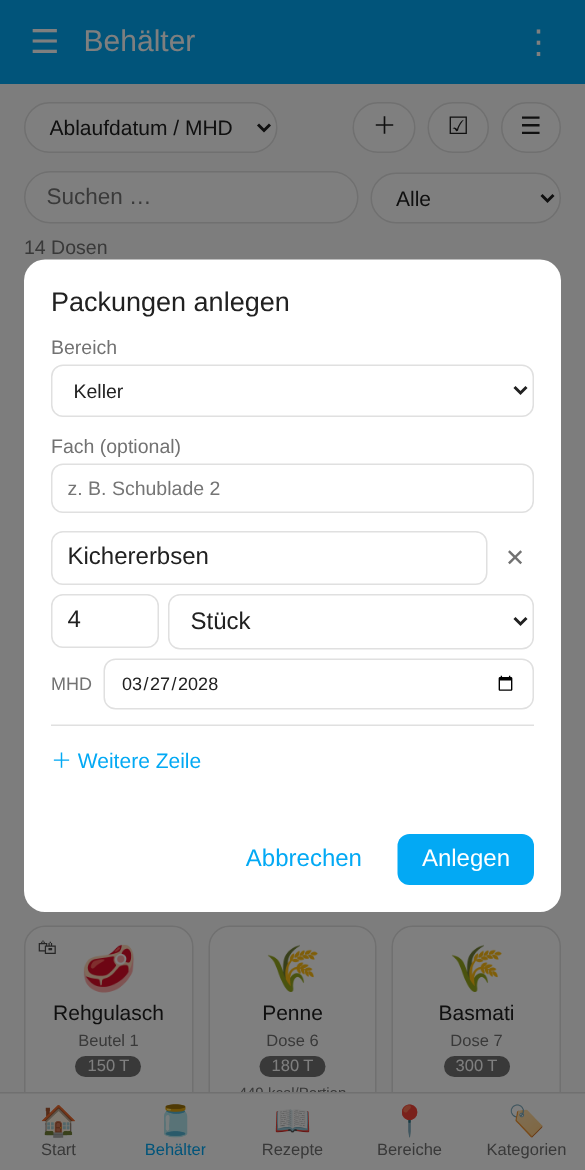
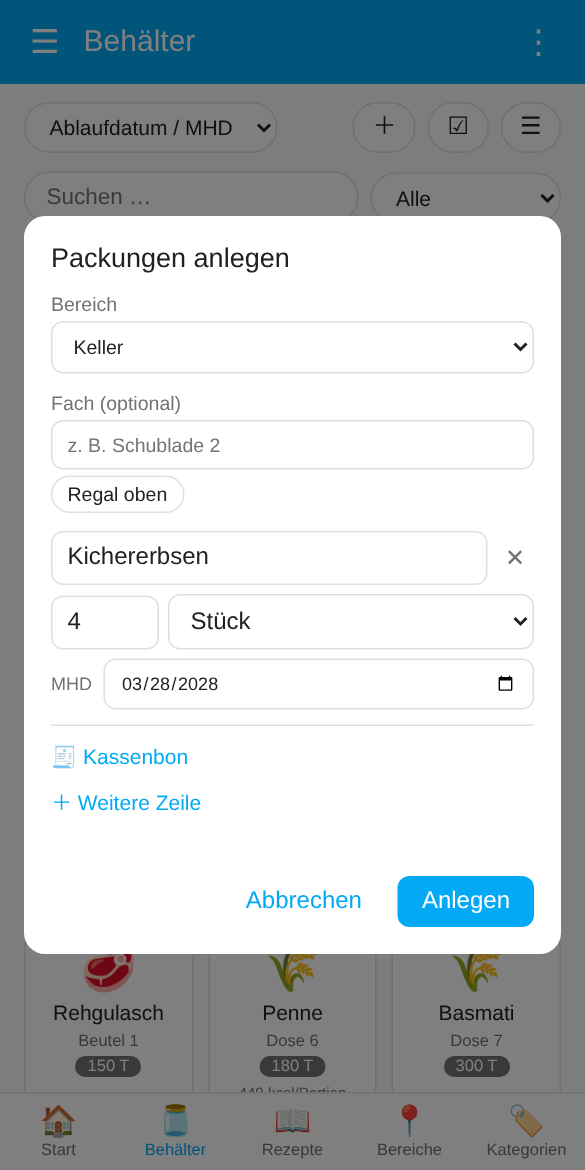
3.2.1: Fach-Vorschläge je Bereich
- schon benutzte Fächer als antippbare Chips unter jedem Fach-Feld (Beutel/Packungen
  anlegen, Verschieben, Karte, Befüll-Dialog), je Bereich, häufigste zuerst
- Tippen filtert; eingetragene Fächer merkt sich das Gerät

Claude-Session: https://claude.ai/code/session_01Q3qkotbUKKo9rH8nVuWDPZ

diff --git a/custom_components/larder/frontend/larder-panel.js b/custom_components/larder/frontend/larder-panel.js
@@ -14,6 +14,101 @@ const VERSION_QUERY = new URL(import.meta.url).search;
 const { STRINGS } = await import(`./larder-panel-strings.js${VERSION_QUERY}`);
 export { STRINGS };
 
+// ----- Fächer vorschlagen -----
+
+const COMPARTMENT_KEY = `${DOMAIN}.compartments`;
+const MAX_COMPARTMENT_CHIPS = 8;
+
+function loadCompartmentMemory() {
+  try {
+    const raw = JSON.parse(window.localStorage.getItem(COMPARTMENT_KEY) || "{}");
+    return raw && typeof raw === "object" ? raw : {};
+  } catch {
+    return {};
+  }
+}
+
+/** Benutztes Fach merken (je Bereich, die zuletzt benutzten zuerst), auch wenn die Dose später weg ist. */
+export function rememberCompartment(areaId, value) {
+  const text = String(value || "").trim();
+  if (!text) return;
+  const memory = loadCompartmentMemory();
+  const key = areaId || "";
+  memory[key] = [text, ...(memory[key] || []).filter((v) => v.toLowerCase() !== text.toLowerCase())].slice(0, 20);
+  try {
+    window.localStorage.setItem(COMPARTMENT_KEY, JSON.stringify(memory));
+  } catch {
+    /* Speicher voll oder gesperrt: dann eben ohne */
+  }
+}
+
+/**
+ * Fächer, die in einem Bereich schon benutzt werden oder wurden: aus den Dosen, Beuteln und Packungen dort
+ * (am häufigsten zuerst) und aus den zuletzt eingetragenen. Ohne Bereich: alle Fächer.
+ */
+export function knownCompartments(hass, devices, areaId) {
+  const states = (hass && hass.states) || {};
+  const counts = new Map();
+  const add = (value, weight) => {
+    const text = String(value || "").trim();
+    if (!text) return;
+    const key = text.toLowerCase();
+    const entry = counts.get(key) || { text, n: 0 };
+    entry.n += weight;
+    counts.set(key, entry);
+  };
+  for (const dev of devices || []) {
+    if (areaId && (dev.areaId || "") !== areaId) continue;
+    const comp = states[dev.entities.compartment];
+    if (comp && comp.state && !["unknown", "unavailable"].includes(comp.state)) add(comp.state, 1);
+  }
+  const memory = loadCompartmentMemory();
+  const remembered = areaId ? memory[areaId] || [] : Object.values(memory).flat();
+  remembered.forEach((value, i) => add(value, 0.5 + (remembered.length - i) / 100));
+  return [...counts.values()].sort((a, b) => b.n - a.n || a.text.localeCompare(b.text)).map((e) => e.text);
+}
+
+/**
+ * Vorschläge als antippbare Chips unter einem Fach-Feld. `getList` liefert die Fächer (z. B. je nach Bereich);
+ * `refresh()` zeichnet sie neu, etwa wenn der Bereich gewechselt wurde. Getipptes filtert die Chips.
+ */
+export function attachCompartmentChips(input, getList, onPick = null) {
+  let box = input.nextElementSibling;
+  if (!box || !box.classList || !box.classList.contains("compchips")) {
+    box = document.createElement("div");
+    box.className = "compchips";
+    box.dataset.role = "compartment-chips";
+    input.after(box);
+  }
+  const refresh = () => {
+    const typed = input.value.trim().toLowerCase();
+    const list = getList().filter((v) => v.toLowerCase() !== typed && (!typed || v.toLowerCase().includes(typed)));
+    box.replaceChildren(
+      ...list.slice(0, MAX_COMPARTMENT_CHIPS).map((value) => {
+        const chip = document.createElement("button");
+        chip.type = "button";
+        chip.className = "compchip";
+        chip.textContent = value;
+        chip.addEventListener("click", () => {
+          input.value = value;
+          refresh();
+          if (onPick) onPick(value);
+          else input.dispatchEvent(new Event("change"));
+        });
+        return chip;
+      }),
+    );
+    box.hidden = !box.children.length;
+  };
+  if (!input.dataset.chips) {
+    input.dataset.chips = "1";
+    input.addEventListener("input", refresh);
+  }
+  input._refreshChips = refresh;
+  refresh();
+  return refresh;
+}
+
 /** Beschriftung der Quelle eines Schätzwerts (Tabelle, KI oder vom Nutzer korrigiert, mit Ursprung). */
 export function sourceLabel(t, source, origin) {
   if (source === "learned") {
@@ -345,7 +440,9 @@ class DoseCard {
       });
     }
     this.q('[data-f="compartment"]').addEventListener("change", (ev) => {
-      if (this.ids.compartment) this._call("text", "set_value", { entity_id: this.ids.compartment, value: ev.target.value.trim() });
+      if (!this.ids.compartment) return;
+      this._call("text", "set_value", { entity_id: this.ids.compartment, value: ev.target.value.trim() });
+      rememberCompartment(this._areaId, ev.target.value);
     });
     this.inputs.bestBefore.addEventListener("change", () => {
       const v = this.inputs.bestBefore.value;
@@ -588,6 +685,8 @@ class DoseCard {
     this.q('[data-l="compartment"]').textContent = t.compartment;
     const compInput = this.q('[data-f="compartment"]');
     compInput.placeholder = t.compartmentHint;
+    this._areaId = dev.areaId || "";
+    if (comp) attachCompartmentChips(compInput, () => knownCompartments(hass, this._panel._devices, this._areaId));
     compInput.disabled = !comp || comp.state === "unavailable";
     this._setInput(compInput, isValidState(comp) ? comp.state : "");
     if (admin) {
@@ -1346,6 +1445,9 @@ class LarderPanel extends HTMLElement {
       const comp = states[flexible[0].entities.compartment];
       f("compartment").value = isValidState(comp) ? comp.state : "";
       f("compartment").placeholder = t.compartmentHint;
+      // Fächer des gewählten Bereichs vorschlagen (wechselt mit dem Bereich)
+      const refresh = attachCompartmentChips(f("compartment"), () => knownCompartments(hass, this._devices, f("area").value), () => {});
+      f("area").onchange = refresh;
     }
     const shop = states[dev.entities.shopping];
     f("shopping").checked = !!shop && shop.state === "on";
@@ -1573,6 +1675,7 @@ class LarderPanel extends HTMLElement {
     }
     if (values.compartment !== undefined && flex && flex.state === "on" && ids.compartment) {
       await hass.callService("text", "set_value", { entity_id: ids.compartment, value: values.compartment });
+      rememberCompartment(values.area !== undefined ? values.area : dev.areaId, values.compartment);
     }
   }
 

diff --git a/custom_components/larder/frontend/larder-dashboard-items.js b/custom_components/larder/frontend/larder-dashboard-items.js
@@ -216,7 +216,7 @@ export function buildItems(kind, rows, vacuum = true) {
   return items;
 }
 
-export function installItems(Dashboard, { el, isAdmin, listAreas, DOMAIN }) {
+export function installItems(Dashboard, { el, isAdmin, listAreas, DOMAIN, attachCompartmentChips, knownCompartments, rememberCompartment }) {
   const proto = Dashboard.prototype;
 
   const fmtDate = (hass, iso) => {
@@ -482,6 +482,8 @@ export function installItems(Dashboard, { el, isAdmin, listAreas, DOMAIN }) {
       error,
       buttonsRow(button("cancel", t.cancel, () => this._closeDialog()), submit),
     );
+    const refreshMoveChips = attachCompartmentChips(compartment, () => knownCompartments(hass, this._classic._devices, area.value), () => {});
+    area.addEventListener("change", refreshMoveChips);
     this._submit = async () => {
       const n = Math.max(1, Math.min(total, parseInt(count.value, 10) || total));
       submit.disabled = true;
@@ -490,6 +492,7 @@ export function installItems(Dashboard, { el, isAdmin, listAreas, DOMAIN }) {
         const msg = { type: `${DOMAIN}/pack_move`, device_id: deviceId, count: n, compartment: compartment.value.trim() };
         msg.area_id = area.value || null;
         await hass.callWS(msg);
+        rememberCompartment(area.value, msg.compartment);
         const place = [area.value ? area.options[area.selectedIndex].textContent : t.noArea, compartment.value.trim()].filter(Boolean).join(" · ");
         this._closeDialog();
         this.showNotice(t.moveDone(n, place));
@@ -728,6 +731,9 @@ export function installItems(Dashboard, { el, isAdmin, listAreas, DOMAIN }) {
       error,
       buttonsRow(button("cancel", t.cancel, () => this._closeDialog()), submit),
     );
+    const chipsFor = () => knownCompartments(hass, this._classic._devices, area.value);
+    const refreshChips = attachCompartmentChips(compartment, chipsFor, () => {});
+    area.addEventListener("change", refreshChips);
     this._submit = async () => {
       const data = [...rows.children].map((row) => {
         const v = (name) => {
@@ -750,7 +756,10 @@ export function installItems(Dashboard, { el, isAdmin, listAreas, DOMAIN }) {
       try {
         const msg = { type: `${DOMAIN}/create_items`, kind, items };
         if (area.value) msg.area_id = area.value;
-        if (compartment.value.trim()) msg.compartment = compartment.value.trim();
+        if (compartment.value.trim()) {
+          msg.compartment = compartment.value.trim();
+          rememberCompartment(area.value, msg.compartment);
+        }
         const res = await hass.callWS(msg);
         this._opts.itemArea = { ...(this._opts.itemArea || {}), [kind]: area.value };
         this._saveOptions();

diff --git a/custom_components/larder/frontend/larder-dashboard.js b/custom_components/larder/frontend/larder-dashboard.js
@@ -7,7 +7,9 @@
  */
 // Mit derselben Versionsangabe laden wie dieses Modul, damit nie eine ältere Kopie aus dem Cache benutzt wird.
 const VERSION_QUERY = new URL(import.meta.url).search;
-const { collectDevices, daysUntil, isLarderLabel, listAreas, soonDaysOf, SOON_DAYS } = await import(`./larder-panel.js${VERSION_QUERY}`);
+const { attachCompartmentChips, collectDevices, daysUntil, isLarderLabel, knownCompartments, listAreas, rememberCompartment, soonDaysOf, SOON_DAYS } = await import(
+  `./larder-panel.js${VERSION_QUERY}`
+);
 const { installItems } = await import(`./larder-dashboard-items.js${VERSION_QUERY}`);
 
 const DOMAIN = "larder";
@@ -2686,7 +2688,7 @@ export class LarderDashboard extends HTMLElement {
   }
 }
 
-installItems(LarderDashboard, { el, isAdmin, listAreas, DOMAIN });
+installItems(LarderDashboard, { el, isAdmin, listAreas, DOMAIN, attachCompartmentChips, knownCompartments, rememberCompartment });
 
 if (!customElements.get("larder-dashboard")) {
   customElements.define("larder-dashboard", LarderDashboard);

diff --git a/custom_components/larder/frontend/larder-dashboard-style.js b/custom_components/larder/frontend/larder-dashboard-style.js
@@ -164,6 +164,10 @@ export const STYLE = `
   .boughtrow:first-of-type { border-top: 0; }
   .boughtrow .name { flex: 1; min-width: 0; }
   .boughtrow button[data-role="bought-dismiss"] { border: 0; color: var(--secondary-text-color); padding: 6px 8px; }
+  .dialog .compchips { display: flex; flex-wrap: wrap; gap: 6px; }
+  .dialog .compchips[hidden] { display: none; }
+  .dialog .compchip { font: inherit; font-size: 13px; padding: 4px 10px; border-radius: 14px; cursor: pointer;
+    border: 1px solid var(--divider-color); background: none; color: var(--primary-text-color); }
   .stocklist { display: flex; flex-direction: column; gap: 8px; }
   .stockitem { background: var(--card-background-color, #fff); border: 1px solid var(--divider-color); border-radius: 12px; padding: 10px 12px; }
   .stockitem.low { border-color: var(--error-color, #c62828); }

diff --git a/custom_components/larder/frontend/larder-panel-style.js b/custom_components/larder/frontend/larder-panel-style.js
@@ -99,6 +99,10 @@ export const STYLE = `
   .lastrow .lasttext { flex: 1; }
   .allergen-warning { font-size: 13px; font-weight: 600; color: var(--error-color, #c62828); }
   .allergen-warning[hidden] { display: none; }
+  .compchips { display: flex; flex-wrap: wrap; gap: 6px; margin-top: 6px; grid-column: 1 / -1; }
+  .compchips[hidden] { display: none; }
+  .compchip { font: inherit; font-size: 13px; padding: 4px 10px; border-radius: 14px; cursor: pointer;
+    border: 1px solid var(--divider-color); background: none; color: var(--primary-text-color); }
   .olderhint { font-size: 13px; color: var(--warning-color, #f57c00); font-weight: 500; }
   .olderhint[hidden] { display: none; }
   details.nutrition { font-size: 13px; }

diff --git a/docs/de/containers.md b/docs/de/containers.md
@@ -80,6 +80,8 @@ Ein Beutel funktioniert wie eine Dose (scannen, Portion entnehmen, **Geöffnet**
 
 **📷 Kassenbon** (mit eingerichteter [KI](best-before.md#ki-optional)) liest ein Foto deines Kassenbons: Die Lebensmittel mit Anzahl erscheinen als Zeilen, Nicht-Lebensmittel, Pfand und Summen bleiben weg. Prüfen, MHD ergänzen (oder leer lassen) und **Anlegen** drücken. Das optionale **Fach** im Dialog gilt für alle Zeilen.
 
+**Fach-Vorschläge:** Überall, wo du ein Fach einträgst (Beutel und Packungen anlegen, Verschieben, Karte, Befüll-Dialog), erscheinen die im gewählten Bereich schon benutzten Fächer als Chips unter dem Feld, die häufigsten zuerst; antippen statt tippen. Tippen filtert die Chips, und früher eingetragene Fächer merkt sich das Gerät, auch wenn dort gerade nichts liegt.
+
 - **−1** auf der Karte entnimmt eine Packung; die letzte entfernt den Eintrag.
 - **Verschieben / aufteilen** bringt einen Teil oder alle Packungen eines Eintrags in einen anderen Bereich und ein anderes Fach (z. B. 2 von 5 Ketchup nach *Vorrat · Schrank*). Liegt dort schon dieselbe Ware mit demselben MHD, werden die Packungen zusammengelegt; sonst entsteht ein neuer Eintrag mit denselben Daten.
 - **Mindestbestand** auf der Karte (z. B. mindestens 4 Ketchup) gilt für das Produkt, also für alle Packungen mit diesem Inhalt an allen Orten, und bleibt gemerkt, auch wenn die letzte Packung weg ist. Sobald weniger da ist, kommt das Produkt auf die [Einkaufsliste](kitchen.md#einkaufsliste) (mit Marke und Packung, nicht doppelt).

diff --git a/docs/en/containers.md b/docs/en/containers.md
@@ -80,6 +80,8 @@ A bag works like a container (scan it, take a portion, **Opened**, **Thawed**, r
 
 **📷 Receipt** (with an [AI](best-before.md#ai-optional) set up) reads a photo of your shopping receipt: the food items and their count appear as rows, non-food lines, deposits and totals are left out. Check them, add the best-before dates (or leave them empty) and press **Add**. The optional **compartment** in the dialog applies to all rows.
 
+**Compartment suggestions:** wherever you enter a compartment (adding bags and packs, moving, the card, the fill dialog), the compartments already used in the chosen area appear as chips below the field, the most used first; tap one instead of typing. Typing filters the chips, and compartments you entered before are remembered on the device even when nothing is left in them.
+
 - **−1** on the card takes one pack; the last one removes the entry.
 - **Move / split** brings some or all packs of an entry to another area and compartment (e.g. 2 of 5 ketchup to *Pantry · Cupboard*). If the same food with the same best-before date is already there, the packs are merged; otherwise a new entry with the same data is created.
 - **Minimum stock** on the card (e.g. at least 4 ketchup) applies to the product, i.e. to all packs with this contents in every place, and is kept when the last pack is gone. As soon as there are fewer, the product goes onto the [shopping list](kitchen.md#shopping-list) (with brand and package, not twice).

diff --git a/CHANGELOG.md b/CHANGELOG.md
@@ -3,6 +3,10 @@
 Release notes for every version, newest first. They are also used as the text of the GitHub releases
 (the workflow `release.yml` takes the section of the version in `manifest.json`).
 
+## 3.2.1
+
+- **Compartment suggestions:** the compartments already used in the chosen area appear as chips below every compartment field (adding bags and packs, moving, card, fill dialog), most used first; typing filters them, and compartments entered before are remembered on the device.
+
 ## 3.2.0
 
 - **Take a pack by barcode:** scan the barcode of a pack (📷 on the start and containers page, 📷 Barcode in the stock view). Larder shows every place of the product with count and best-before date, the oldest first; **−1** takes one from the place you choose. Unknown products can be added as a pack right away.
